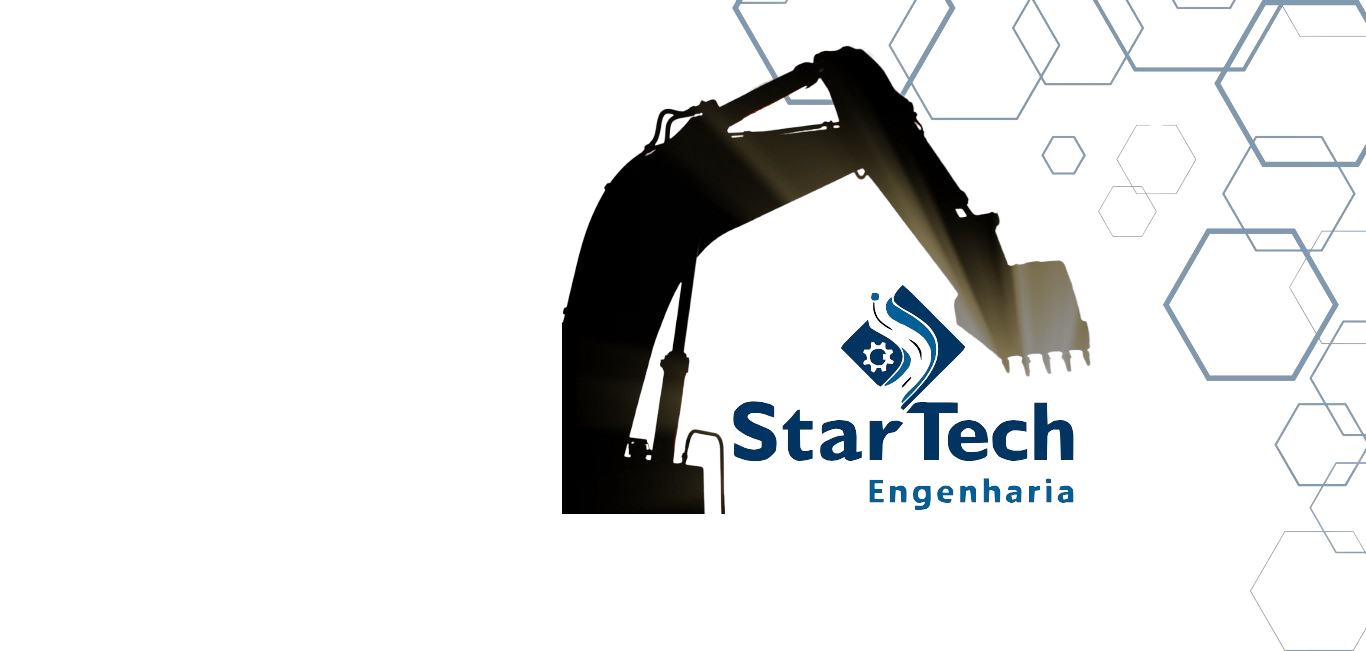
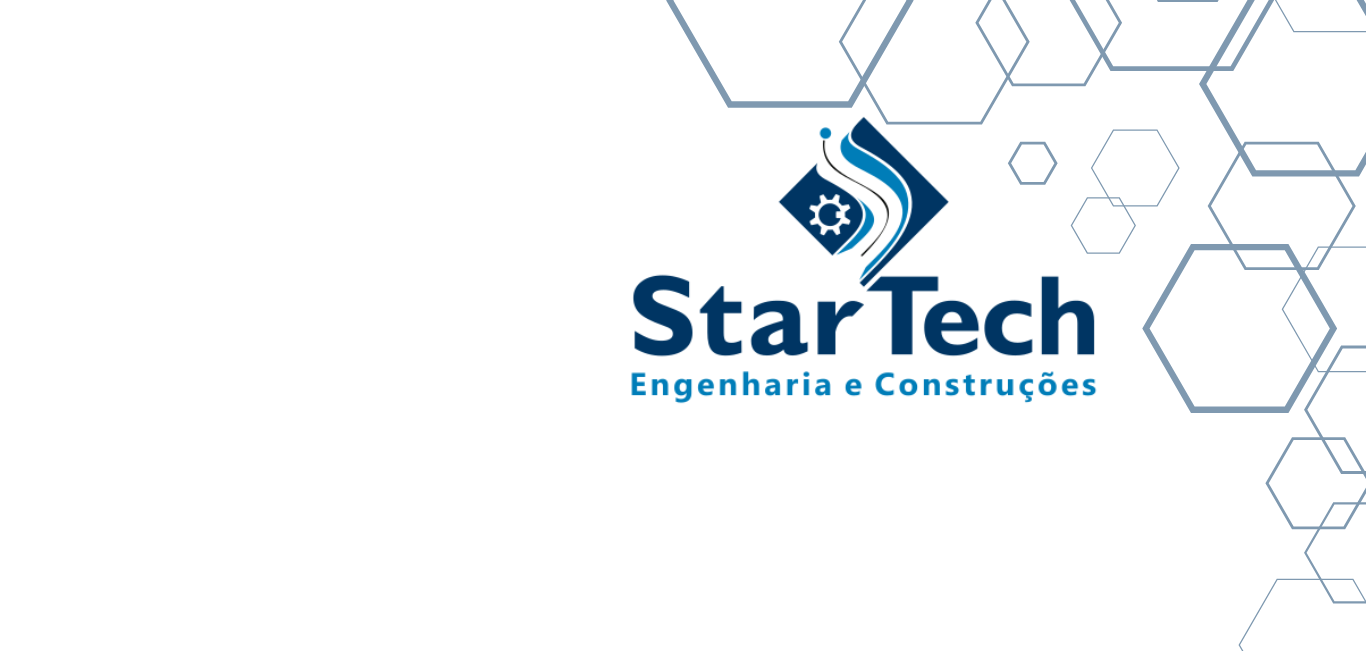
.

diff --git a/index.html b/index.html
@@ -94,7 +94,7 @@
 
         <div class="row content" data-aos="fade-up">
           <div class="col-lg-6">
-            <img src="./assets/img/logos/principal.png" class="img-fluid" alt="">
+            <img src="./assets/img/logos/secundaria.png" class="img-fluid" alt="">
           </div>
           <div class="col-lg-6 pt-4 pt-lg-0">
             <p>
